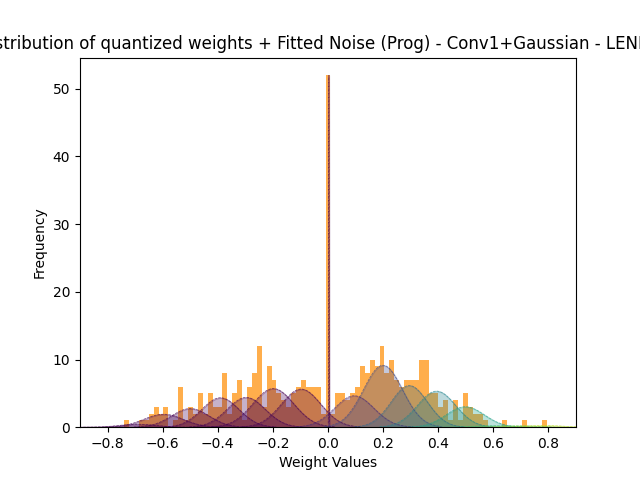
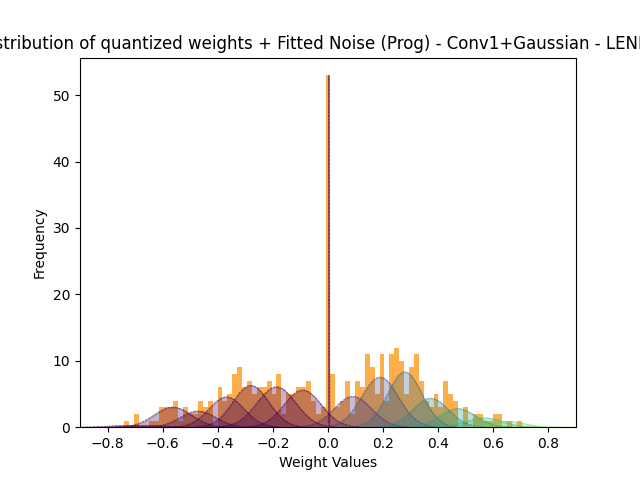
debugging of gaussian plot function

diff --git a/sandbox/cuda/resnet.py b/sandbox/cuda/resnet.py
@@ -529,6 +529,7 @@ if __name__ == '__main__':
     model_fitted.eval()
     tile_weights = next(model_fitted.analog_tiles()).get_weights()
     pl.plot_tensor_values(tile_weights[0], 141, (-.6,.6), f"Distribution of quantized weights - Conv1 - RESNET{SELECTED_LEVEL}", p_PATH + f"/resnet/plots/hist_resnet_QUANTIZED_{SELECTED_LEVEL}_Conv1.png")
+    weight_max = max(abs(tile_weights[0].flatten().numpy()))
     model_fitted.program_analog_weights()
 
 
@@ -536,7 +537,7 @@ if __name__ == '__main__':
     tile_weights = next(model_fitted.analog_tiles()).get_weights()
     gaussain_noise = {"means": ww_mdn[CHOSEN_NOISE].values, "stds": ww_std[CHOSEN_NOISE].values, "gmax": 40.0}
     pl.plot_tensor_values(tile_weights[0], 141, (-.6,.6), f"Distribution of quantized weights + Fitted Noise ({CHOSEN_NOISE}) - Conv1 - RESNET{SELECTED_LEVEL}", p_PATH + f"/resnet/plots/hist_resnet_QUANTIZED_{SELECTED_LEVEL}+FITTED_Conv1.png")
-    pl.plot_tensor_values(tile_weights[0], 141, (-.6,.6), f"Distribution of quantized weights + Fitted Noise ({CHOSEN_NOISE}) - Conv1+Gaussian \n- RESNET{SELECTED_LEVEL}", p_PATH + f"/resnet/plots/hist_resnet_QUANTIZED_{SELECTED_LEVEL}+FITTED_Conv1+Gaussian.png", gaussian=gaussain_noise)
+    pl.plot_tensor_values(tile_weights[0], 141, (-.6,.6), f"Distribution of quantized weights + Fitted Noise ({CHOSEN_NOISE}) - Conv1+Gaussian \n- RESNET{SELECTED_LEVEL}", p_PATH + f"/resnet/plots/hist_resnet_QUANTIZED_{SELECTED_LEVEL}+FITTED_Conv1+Gaussian.png", gaussian=gaussain_noise, weight_max=weight_max)
     pl.generate_moving_hist(model_fitted,title=f"Distribution of Quantized Weight + Fitted Noise ({CHOSEN_NOISE})\n Values over the tiles - RESNET{SELECTED_LEVEL}", file_name=p_PATH + f"/resnet/plots/hist_resnet_QUANTIZED_{SELECTED_LEVEL}_FITTED.gif", range = (-.5,.5), top=None, split_by_rows=False, HIST_BINS=171)
 
     # Estimate the accuracy of the model with the fitted noise with respect to the other 9 levels model
@@ -614,8 +615,9 @@ if __name__ == '__main__':
     ax.fill_between(x, y1, y2, where=(y2 > y1), color='bisque', alpha=0.5, label='Confidence Interval')
     ax.plot(x, y1, '--', color='firebrick')
     ax.plot(x, y2, '--', color = 'firebrick')
-    ax.plot(x, max, ls='dashdot', color = 'olivedrab', label = 'Max observed accuracy', marker = '1')
-    ax.plot(x, min, ls= 'dashdot', color = 'olivedrab', label = 'Min observed accuracy', marker = '2')
+    ax.fill_between(x, min, max, where=(max > min), color='lightsalmon', alpha=0.5, label='Observed Accuracy Interval')
+    ax.plot(x, max, ls='dashdot', color = 'olivedrab', label = 'Max observed accuracy', marker = '1', markersize=10)
+    ax.plot(x, min, ls= 'dashdot', color = 'olivedrab', label = 'Min observed accuracy', marker = '2', markersize=10)
 
 
     ax.set_title(f"Accuracy of the models over {n_reps} repetitions")

diff --git a/sandbox/src/plotting.py b/sandbox/src/plotting.py
@@ -54,7 +54,7 @@ def feed_to_plot(data, split_by_rows: bool = True):
 
 #  -------*-------- HISTOGRAPH FUNCTIONS --------*--------
 
-def plot_tensor_values(tensor: torch.Tensor,bins:int, range: tuple, title: str, name_file: str = None, gaussian: dict = None):
+def plot_tensor_values(tensor: torch.Tensor,bins:int, range: tuple, title: str, name_file: str = None, gaussian: dict = None, weight_max = None):
     # Create a new figure
     fig, ax = plt.subplots()
     # Create a histogram of the tensor values
@@ -63,14 +63,16 @@ def plot_tensor_values(tensor: torch.Tensor,bins:int, range: tuple, title: str, 
     ax.set_xlim(left=range[0], right=range[1])
     ax.set_ylabel('Frequency')
     ax.set_title(title)
+    
 
     # if gaussian is provided, the dictionary should contain a list of means and stds.
     # The function will plot the gaussian distribution on top of the histogram
     # NOTE:The gaussian means and stds should be referred to the conductance values to wich the weights are mapped
     if gaussian:
         colors = plt.get_cmap('viridis')(np.linspace(range[0], range[1], len(gaussian['means'])))
-        weight_max = max(abs(tensor.flatten().numpy())) 
+        weight_max = max(abs(tensor.flatten().numpy())) if not weight_max else weight_max
         scale = gaussian['gmax'] / weight_max
+        
         for i,(mean, std) in enumerate(zip(gaussian['means'], gaussian['stds'])):
             mean = mean / scale
             std = std / scale
@@ -82,7 +84,7 @@ def plot_tensor_values(tensor: torch.Tensor,bins:int, range: tuple, title: str, 
                 gaussian_bins = container[0][bin_low-1]
             else:   
                 gaussian_bins = container[0][bin_low-1 : bin_high-1] * np.exp(-0.5 * (( np.linspace(bin_range[0], bin_range[1], len(container[0][bin_low-1 : bin_high-1])) - mean) / std) ** 2)
-            mean_height = np.mean(gaussian_bins)
+            mean_height = np.mean(gaussian_bins) if bin_low != bin_high else gaussian_bins
             x = np.linspace(mean - 3*std, mean + 3*std, 100)
             y = (mean_height) * np.exp(-0.5 * ((x - mean) / std) ** 2)
             ax.plot(x, y, color=colors[i], linewidth=0.5, alpha=0.7, linestyle='--'), 
